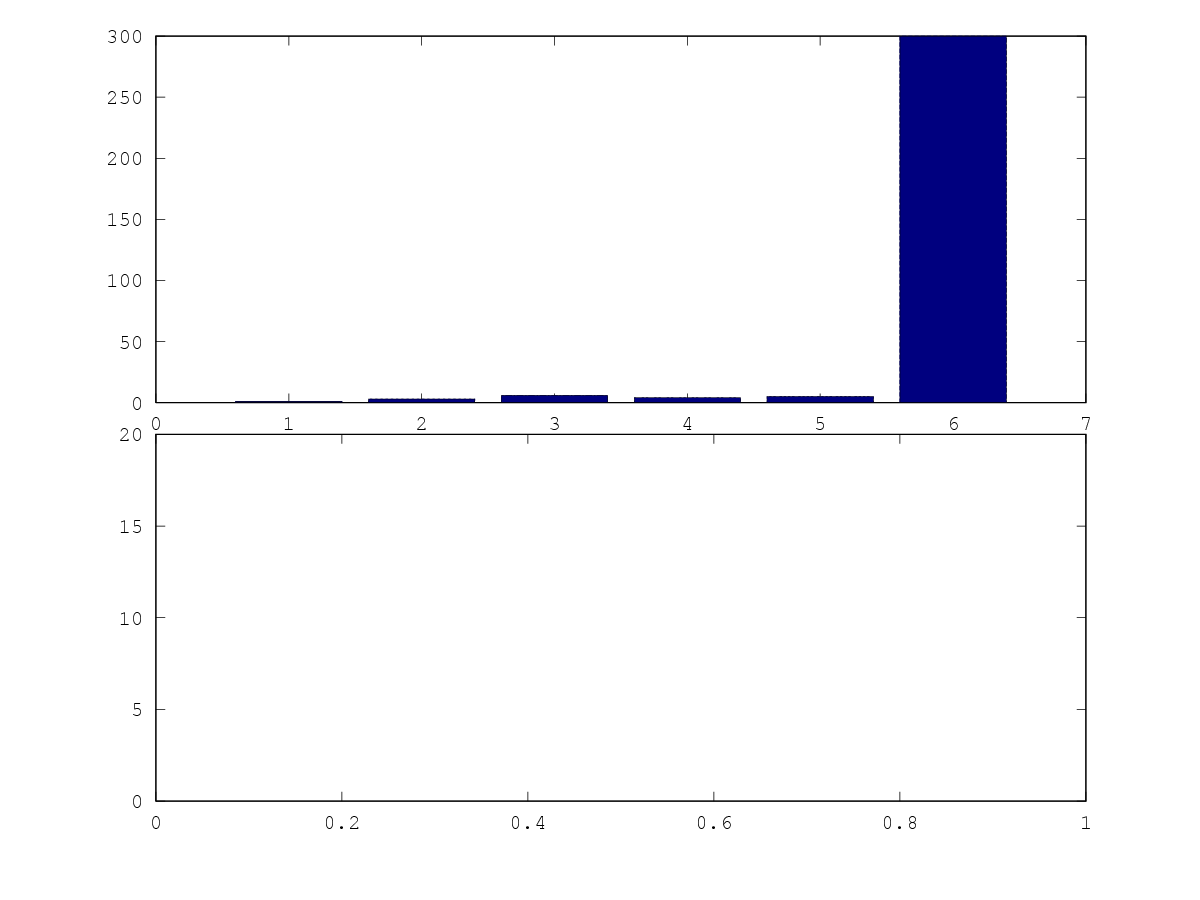
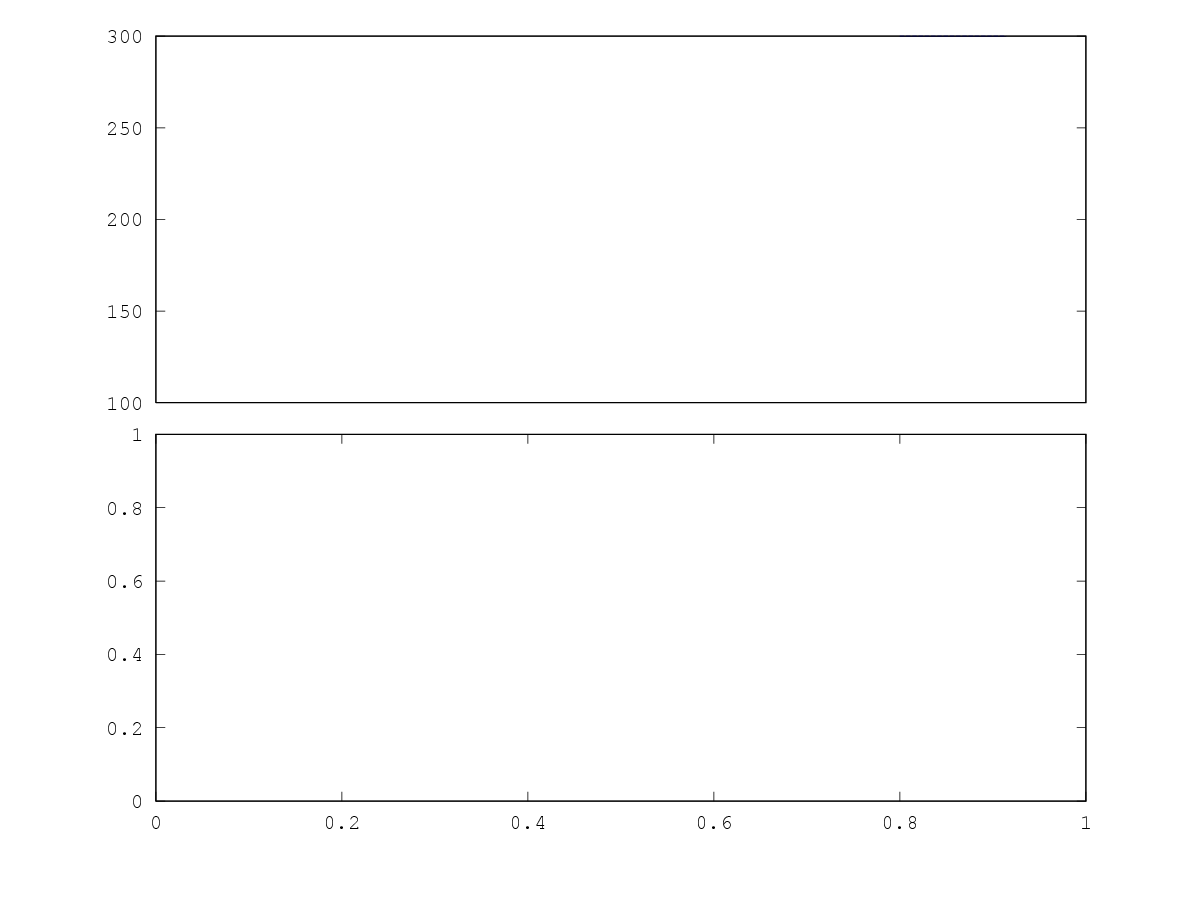
break_axis.m

diff --git a/break_axis.m b/break_axis.m
@@ -14,10 +14,10 @@ delete(gcf);
 a1=axes('position',[p0(1) p0(2) p0(3) p0(4)/2]);
 a2=axes('position',[p0(1) p0(4)/2+.145 p0(3) p0(4)/2])
 %barh(a);
-bar(a);
+%bar(a);
 %set(a1,'ylim',ylim1);
-set(a2,'xlim',xlim,'ylim',ylim2);
-set(a2,'xtick',[]);
+%set(a2,'xlim',xlim,'ylim',ylim2);
+%set(a2,'xtick',[]);
 %box off;
 
 % create axis2
@@ -27,9 +27,9 @@ set(a2,'xtick',[]);
 %barh(a);
 bar(a);
 
-set(a1,'ylim',ylim1);
-%set(a2,'xlim',xlim,'ylim',ylim2);
-%set(a2,'xtick',[]);
+%set(a1,'ylim',ylim1);
+set(a2,'xlim',xlim,'ylim',ylim2);
+set(a2,'xtick',[]);
 %set(a2,'xcolor',get(a2,'color'));
 %box off
 
